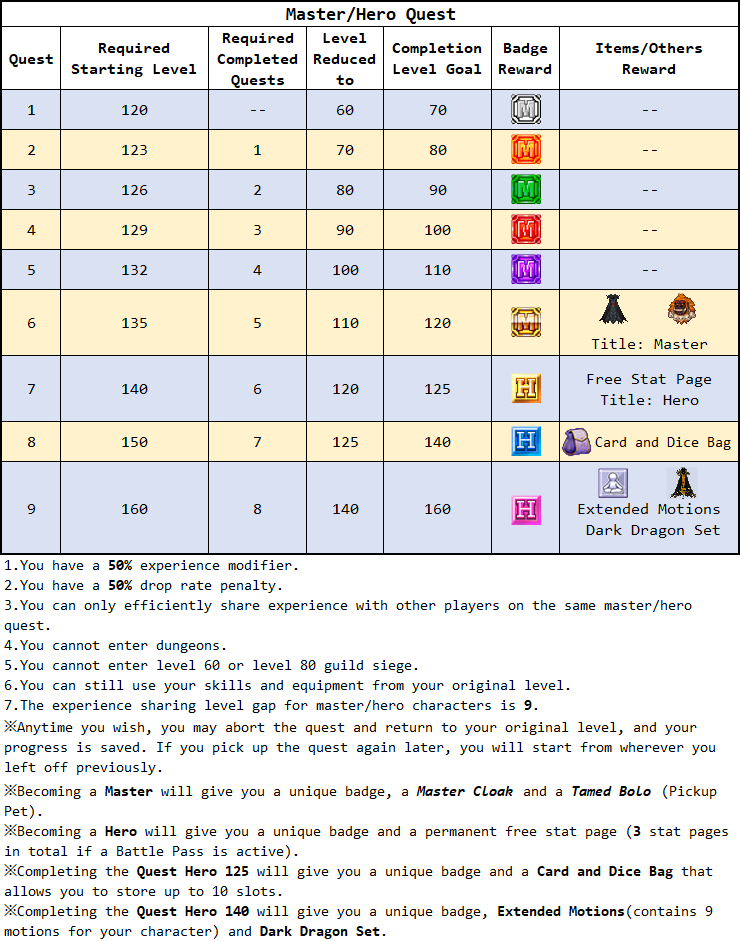
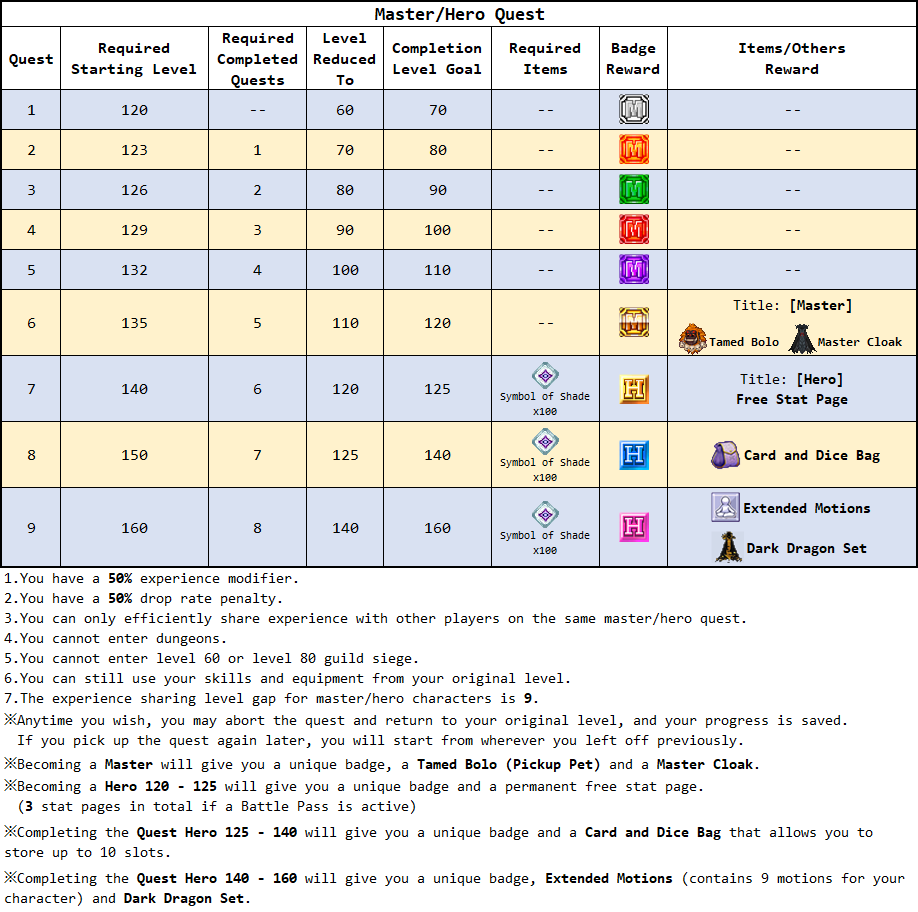
feat: update master&hero quests

diff --git a/README.md b/README.md
@@ -1292,11 +1292,11 @@ Those who have completed the Optional Master Quest during the event period will 
 
 #### hero reward
 
-* Becoming a Hero will give you a unique badge and a permanent free stat page (`3` stat pages in total if a Battle Pass is active).
+* Becoming a **Hero 120 - 125** will give you a unique badge and a permanent free stat page (`3` stat pages in total if a Battle Pass is active).
 
-* Completing the Quest Hero 125 will give you a unique badge and a Card and Dice Bag that allows you to store up to 10 slots.
+* Completing the **Quest Hero 125 - 140** will give you a unique badge and a Card and Dice Bag that allows you to store up to 10 slots.
 
-* Completing the Quest Hero 140 will give you a unique badge, Extended Motions(contains 9 motions for your character) and Dark Dragon Set.
+* Completing the **Quest Hero 140 - 160** will give you a unique badge, Extended Motions (contains 9 motions for your character) and Dark Dragon Set.
 
 </details></td></tr></table>
 
